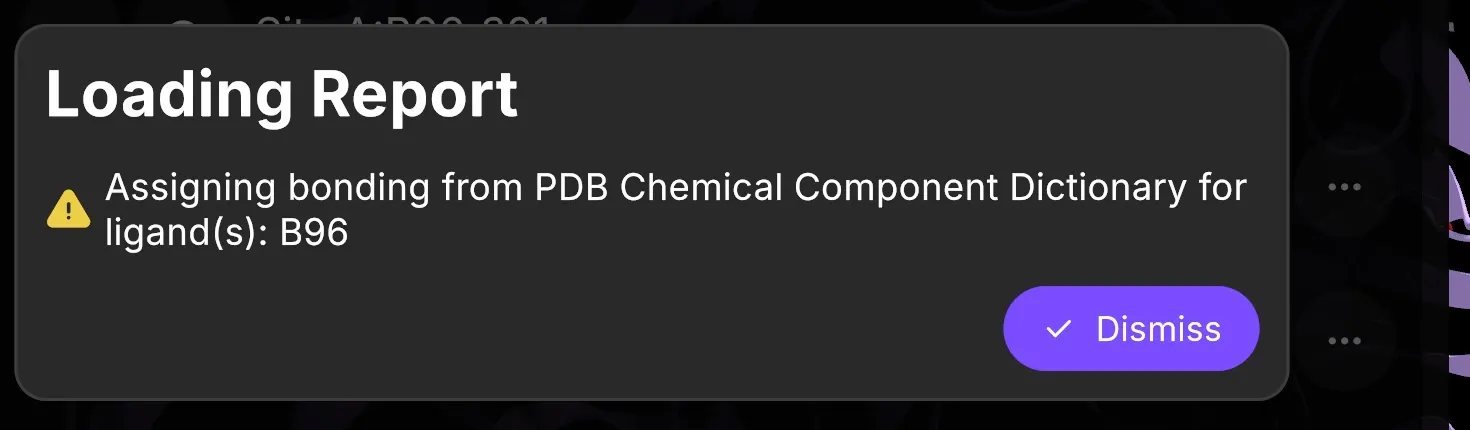
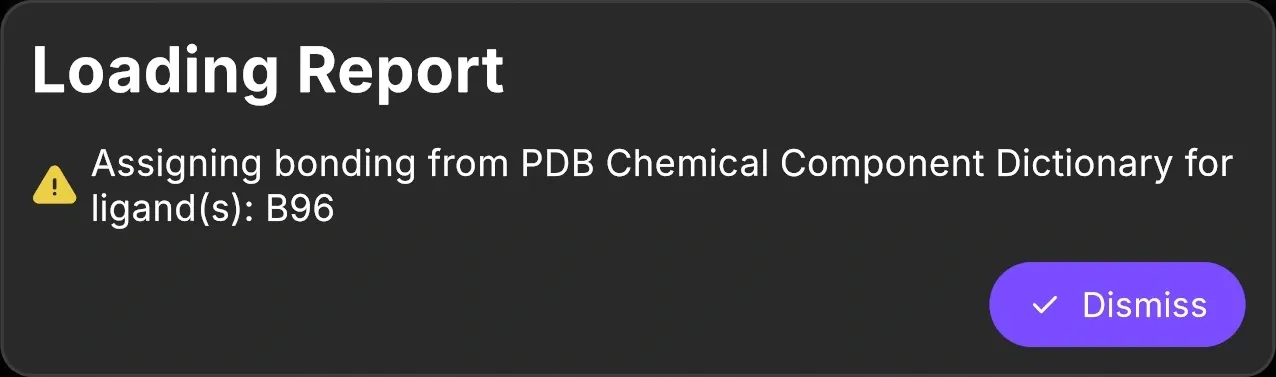
Tidy hardware, session guide and home text, and trim loose screenshots
- Choosing Hardware names Nanome XR 2.7.1, uses US spelling, and says the Windows download runs offline once unzipped
- Classic hardware table: Pico 4, a working voice command link, no Pico 4 link on Pico Neo 3, and cleaner wording
- Home and What's New say Builder Tool, as the app does; video titles read KRAS G12C, COVID-19 and YouTube
- Session Guide: the Spotlight figure spans the page so its labels read, the legend names the Spotlighting 1/1 button, and two contrasts are gone
- Gamepad: L3 and R3 light the stick caps, and the full rings light the sticks
- Entries Tab: the Interactions card uses the same icon as its section
- Crop the Wrist Menu shot above a room name, the Loading Report to its dialog, and 4 Stack Studio shots to their content
- Headset collage has a dark copy, so it no longer shows as a white panel in dark mode

diff --git a/docs/help/choosinghardware-classic.md b/docs/help/choosinghardware-classic.md
@@ -46,7 +46,7 @@ release, see [Choosing Hardware](/help/choosinghardware).
             <td>Meta Quest 3</td>
             <td>Meta Quest 2</td>
             <td>Vive XR Elite</td>
-            <td>Pico Neo 4</td>
+            <td>Pico 4</td>
             <td>Pico Neo 3</td>
             <td>Meta Quest Link (Supports Meta Quest Pro & Meta Quest 2/3)</td>
             <td>SteamVR (Supports Valve Index, HTC Vive Pro)</td>
@@ -100,7 +100,7 @@ release, see [Choosing Hardware](/help/choosinghardware).
             <td>Partial Support (requires sideloaded APK file)</td>
             <td>Partial Support (requires sideloaded APK file)</td>
             <td>Partial Support (requires sideloaded APK file)</td>
-            <td>Yes has Full Support</td>
+            <td>Yes, full support</td>
             <td>Partial Support (requires sideloaded APK file)</td>
             <td>Partial Support (requires sideloaded APK file)</td>
             <td colspan=2 style="text-align: center">Yes, with PC</td>
@@ -144,7 +144,7 @@ release, see [Choosing Hardware](/help/choosinghardware).
             <td>Through Nanome Inc. or <a href="https://www.meta.com/quest/products/quest-2/">Meta Quest 2</a><br></td>
             <td>Through Nanome Inc. or <a href="https://business.vive.com/eu/solutions/streaming/">HTC</a></td>
             <td><a href="https://www.picoxr.com/global/products/pico4">PicoXR</a><br></td>
-            <td><a href="https://www.picoxr.com/global/products/pico4">PicoXR</a><br></td>
+            <td>PicoXR<br></td>
             <td><a href="https://www.meta.com/help/quest/articles/headsets-and-accessories/oculus-link/meta-quest-link-compatibility/">Meta Quest Link Cable Requirements</a></td>
             <td></td>
         </tr>
@@ -178,7 +178,7 @@ The tables below give a brief overview of what the Meta Quest Pro, Meta Quest 2 
 structures can be loaded within the workspace in the Meta Quest 2 & Vive Focus 3.
 2. Surfaces (on/off), secondary structures (ribbons on/off), and supplemental materials
 (PDF/JPEGs, whiteboards, web browsers, labels) all affect performance in different ways
-significantly. ‘Shown Atom Count’ column is given nothing else is displayed in the scene.
+significantly. ‘Shown Atom Count’ column is given assuming nothing else is displayed in the scene.
 3. Desktop is assumed to be “VR ready” (Nvidia GTX 1060 or greater).
 
 </Accordion>
@@ -286,7 +286,7 @@ significantly. ‘Shown Atom Count’ column is given nothing else is displayed 
         <tr>
             <td><b>Voice Commands</b></td>
             <td>Not Compatible</td>
-            <td>Compatible (full list here)</td>
+            <td>Compatible (<a href="/nanome1x/navigation/voicecommand">full list</a>)</td>
         </tr>
         <tr>
             <td><b>in-VR Web browser</b></td>

diff --git a/docs/session-guide.md b/docs/session-guide.md
@@ -79,7 +79,7 @@ much structure is on screen. Settle those first.
 
 - Set the global permission to Viewer before sharing the code. Viewers explore, spotlight, follow, and move through scenes without changing the workspace.
 - Prepare the scenes first. A Viewer walking into a finished sequence needs no setup time.
-- Budget the atom count for the weakest headset in the room, not the strongest.
+- Budget the atom count for the weakest headset in the room.
 
 </ChooserResult>
 
@@ -363,7 +363,7 @@ variation cheap and a clean slate equally cheap.
 
 ### Building a sequence
 
-<ShotRow src="nanome-v2/v2-7/scenes-panel.webp" alt="The Scenes Panel controls, labelled">
+<ShotRow src="nanome-v2/v2-7/scenes-panel.webp" alt="The Scenes Panel controls, labeled">
 
 *Scenes Panel controls. Every button is described on [Scenes Panel](/nanome_v2/scenespanel).*
 
@@ -632,12 +632,12 @@ points where.
 
 ### Spotlight and follow
 
-<ShotRow src="nanome-v2/scenes-panel-spotlight-mode.jpg" alt="Spotlighting, seen by the user spotlighting and by a follower">
+<ShotRow src="nanome-v2/scenes-panel-spotlight-mode.jpg" alt="Spotlighting, seen by the user spotlighting and by a follower" crop="0,2,100,96">
 
 *Spotlighting, seen from both sides.*
 
 <UiList label="Spotlight and follow">
-<UiItem icon="crown" name="Spotlight Me" area="2.8,81.6,20.1,6.0">Makes your view the shared view. Followers see it with a crown icon.</UiItem>
+<UiItem icon="crown" name="Spotlighting 1/1" area="2.8,81.6,20.1,6.0">Shown after you choose Spotlight Me. Your view is the shared view, and followers see it with a crown icon. The count is how many of the other users follow you, and selecting the button stops spotlighting.</UiItem>
 <UiItem name="Stop" area="76.3,82.4,4.9,5.4">Lets a follower break away.</UiItem>
 <UiItem icon="analyze-filled" name="Reset orientation" area="73.3,82.4,2.9,5.4">Brings back a follower who got turned around.</UiItem>
 </UiList>
@@ -673,7 +673,7 @@ The **Users** tab shows a mic input level, a display name anyone can change, and
 a per-user menu for muting another user locally. The Wrist Menu carries a mute
 button for the moments between speaking.
 
-<vimg src="nanome-v2/v2-7/users-tab-annotated.webp" alt="The Users tab, labelled" />
+<vimg src="nanome-v2/v2-7/users-tab-annotated.webp" alt="The Users tab, labeled" />
 
 *Users tab.*
 
@@ -707,7 +707,7 @@ headsets cannot reach.
 
 <AccordionGroup label="6 checks">
 
-<Accordion title="The headset feels slow or uncomfortable" teaser="Almost always the shown atom count, not the network.">
+<Accordion title="The headset feels slow or uncomfortable" teaser="Almost always the shown atom count.">
 
 Hide everything, then bring back only what the current scene is about. Keeping a
 surface to the pocket, or hiding it, buys the most frames.

diff --git a/docs/index.md b/docs/index.md
@@ -39,7 +39,7 @@ classic:
   url: /nanome1x/overview
 newUpdates:
   title: "What's New in Nanome 2.7"
-  description: Comments tied to the atoms they're about, pocket minimization in the Ligand Builder, a new atom and bond renderer, and hover, select and measure in Nanome Web.
+  description: Comments tied to the atoms they're about, pocket minimization in the Builder Tool, a new atom and bond renderer, and hover, select and measure in Nanome Web.
   img: /assets/compressed/nanome-web/workspace-overview.webp
   url: /nanome_v2/whatsnew.html
 quickTips:
@@ -72,13 +72,13 @@ quickTips:
     description: Create polymer interaction components and explore the interactions report in VR
     url: https://youtu.be/YHOGQq1dUck
 carousels:
-  - title: Nanome Youtube Channel
+  - title: Nanome YouTube Channel
     numSlides: 4
     slides:
-      - title: 'COVID19 in VR: D614G mutation in SARS-CoV-2 Spike protein'
+      - title: 'COVID-19 in VR: D614G mutation in SARS-CoV-2 Spike protein'
         img: https://i.ytimg.com/vi/de89sFYbc4E/hqdefault.jpg
         url: https://youtu.be/de89sFYbc4E
-      - title: 'KRAS in VR: Novel Covalent Allosteric Binders for KRAS G12C3'
+      - title: 'KRAS in VR: Novel Covalent Allosteric Binders for KRAS G12C'
         img: https://i.ytimg.com/vi/WbB6xFRkX-c/hqdefault.jpg
         url: https://youtu.be/WbB6xFRkX-c
       - title: 'GPCRs in VR: Identification of Cannabinoid CB1 Receptor Allosteric Sites to Treat Epilepsy'
@@ -99,10 +99,10 @@ carousels:
       - title: 'Leveraging VR in the Chemistry Classroom - A Discussion with Chemistry Educators'
         img: https://i.ytimg.com/vi/vI3tm_-ckiI/hqdefault.jpg
         url: https://youtu.be/vI3tm_-ckiI
-      - title: 'COVID19 in VR: Emerging U.S. Variants - L452R and Q677P/H'
+      - title: 'COVID-19 in VR: Emerging U.S. Variants - L452R and Q677P/H'
         img: https://i.ytimg.com/vi/5sZzMYOaaTQ/hqdefault.jpg
         url: https://youtu.be/5sZzMYOaaTQ
-      - title: 'Covid-19 in VR: Exploring Spike Protein Mutations with Dr. Kuiper from CSIRO Data61'
+      - title: 'COVID-19 in VR: Exploring Spike Protein Mutations with Dr. Kuiper from CSIRO Data61'
         img: https://i.ytimg.com/vi/daaoazyBml8/hqdefault.jpg
         url: https://youtu.be/daaoazyBml8
 blogCarousels:

diff --git a/docs/help/choosinghardware.md b/docs/help/choosinghardware.md
@@ -5,7 +5,7 @@ pageClass: n-wide
 
 # Choosing Hardware
 
-<Callout type="note" title="Nanome v2, as of v2.6.1">
+<Callout type="note" title="Nanome XR, as of 2.7.1">
 
 This page covers the current release of Nanome. For Nanome Classic (v1.24), see
 [Choosing Hardware (Nanome Classic)](/help/choosinghardware-classic).
@@ -17,7 +17,7 @@ Windows PCs over Meta Link (PCVR), and in any modern browser at app.nanome.ai.
 
 <IconGrid label="Choosing hardware" :cols="3">
 <IconCard icon="device-vision-pro" title="Comparison matrix" href="#nanome-headset-comparison-matrix">Processor, display, installing, MDM, sign-in and price.</IconCard>
-<IconCard icon="ban" title="Not supported" href="#headsets-not-supported">Headsets Nanome v2 doesn't run on.</IconCard>
+<IconCard icon="ban" title="Not supported" href="#headsets-not-supported">Headsets Nanome XR doesn't run on.</IconCard>
 <IconCard icon="mood-smile" title="Comfort comparison" href="#comfort-comparison">How much structure each platform shows comfortably.</IconCard>
 </IconGrid>
 
@@ -59,9 +59,9 @@ Windows PCs over Meta Link (PCVR), and in any modern browser at app.nanome.ai.
     </tr>
     <tr>
       <th>Mixed reality passthrough</th>
-      <td>Yes, full colour, stereoscopic (Quest 3 adds a depth sensor)</td>
-      <td>Yes, full colour, stereoscopic</td>
-      <td>Yes, full colour, stereoscopic</td>
+      <td>Yes, full color, stereoscopic (Quest 3 adds a depth sensor)</td>
+      <td>Yes, full color, stereoscopic</td>
+      <td>Yes, full color, stereoscopic</td>
       <td>No</td>
       <td>No</td>
     </tr>
@@ -102,7 +102,7 @@ Windows PCs over Meta Link (PCVR), and in any modern browser at app.nanome.ai.
       <td>No</td>
       <td>No</td>
       <td>No</td>
-      <td>The installer runs offline; signing in needs a network</td>
+      <td>The download runs offline once unzipped; signing in needs a network</td>
       <td>No</td>
     </tr>
     <tr>

diff --git a/docs/nanome_v2/whatsnew.md b/docs/nanome_v2/whatsnew.md
@@ -8,7 +8,7 @@ Release 2.7 shipped on October 12, 2026, and 2.7.1 followed as a patch. The full
 
 <IconGrid label="What's new in 2.7" :cols="3">
 <IconCard icon="message" title="Comments" href="/nanome_v2/toolspanel#comments">Threaded comments, tied to atoms.</IconCard>
-<IconCard icon="hexagon-plus-2" title="Ligand Builder" href="/nanome_v2/toolspanel#builder-tool">Attachment points, ring fusion and auto relax.</IconCard>
+<IconCard icon="hexagon-plus-2" title="Builder Tool" href="/nanome_v2/toolspanel#builder-tool">Attachment points, ring fusion and auto relax.</IconCard>
 <IconCard icon="minimize" title="Pocket minimization" href="/nanome_v2/toolspanel#pocket-minimization">Minimize a ligand inside its binding site.</IconCard>
 <IconCard icon="lasso" title="Hover, select and measure" href="/nanome_web/workspace#tool-rail">The selection and measurement tools on desktop and web.</IconCard>
 <IconCard icon="droplet" title="Pointing in XR" href="/nanome_v2/toolspanel#pointer">Whole-residue hover, tooltips and the off-hand pointer.</IconCard>
@@ -24,7 +24,7 @@ Release 2.7 shipped on October 12, 2026, and 2.7.1 followed as a patch. The full
 
 Comments live inside the workspace, threaded and tied to the atoms they're about. They can belong to an annotation, a scene or the whole workspace, with replies, @mentions, reactions and unread tracking. Annotations and comments now share one panel.
 
-## <AppIcon name="hexagon-plus-2" /> Ligand Builder {#ligand-builder}
+## <AppIcon name="hexagon-plus-2" /> Builder Tool {#ligand-builder}
 
 - Attachment points follow each atom's valence and hybridization, fragments preview before they attach, torsions snap to favorable angles, and rings close automatically.
 - **Replace** can fuse a ring fragment onto an existing ring, with an aromatic preview.

diff --git a/docs/nanome_web/entries.md b/docs/nanome_web/entries.md
@@ -13,7 +13,7 @@ The **Entries** tab lists every structure in the workspace and the components th
 <MapCard icon="dots" title="More options" href="#more-options" side="right" area="88.6,35.0,4.4,3.2">Rename, export, load a map or trajectory, delete.</MapCard>
 <MapCard icon="scribble" title="Representations" href="#representations" side="right" area="63.7,39.8,16.4,5.1">How a component is drawn.</MapCard>
 <MapCard icon="palette" title="Colors" href="#colors" side="bottom" area="69.0,63.5,10.8,3.6">Color schemes, from the palette button beside each representation.</MapCard>
-<MapCard icon="link" title="Interactions" href="#interactions" side="bottom" area="20.5,74.6,72.5,4.0">The interaction types a component such as Pocket + Ligand shows.</MapCard>
+<MapCard icon="mist" title="Interactions" href="#interactions" side="bottom" area="20.5,74.6,72.5,4.0">The interaction types a component such as Pocket + Ligand shows.</MapCard>
 </ScreenMap>
 
 ## <AppIcon name="stack-2" /> Entries and components {#entries-and-components}

diff --git a/docs/controls/overview.md b/docs/controls/overview.md
@@ -48,9 +48,9 @@ title: Nanome Controls
 
 <UiList label="Joystick">
 <UiItem name="Left stick" area="35.9,35.7,4.7,9.9">Modifier: while clicked, rotate axes is MAX.</UiItem>
-<UiItem name="L3" area="35.9,35.7,4.7,9.9">Modifier: while clicked, move axes is MAX.</UiItem>
+<UiItem name="L3" area="37.0,38.2,2.4,5.0">Modifier: while clicked, move axes is MAX.</UiItem>
 <UiItem name="Right stick" area="49.6,46.7,4.9,10.1">Set move axes to low preset.</UiItem>
-<UiItem name="R3" area="49.6,46.7,4.9,10.1">Modifier: while clicked, rotate axes is MAX.</UiItem>
+<UiItem name="R3" area="50.8,49.2,2.5,5.1">Modifier: while clicked, rotate axes is MAX.</UiItem>
 </UiList>
 
 **D-Pad**
